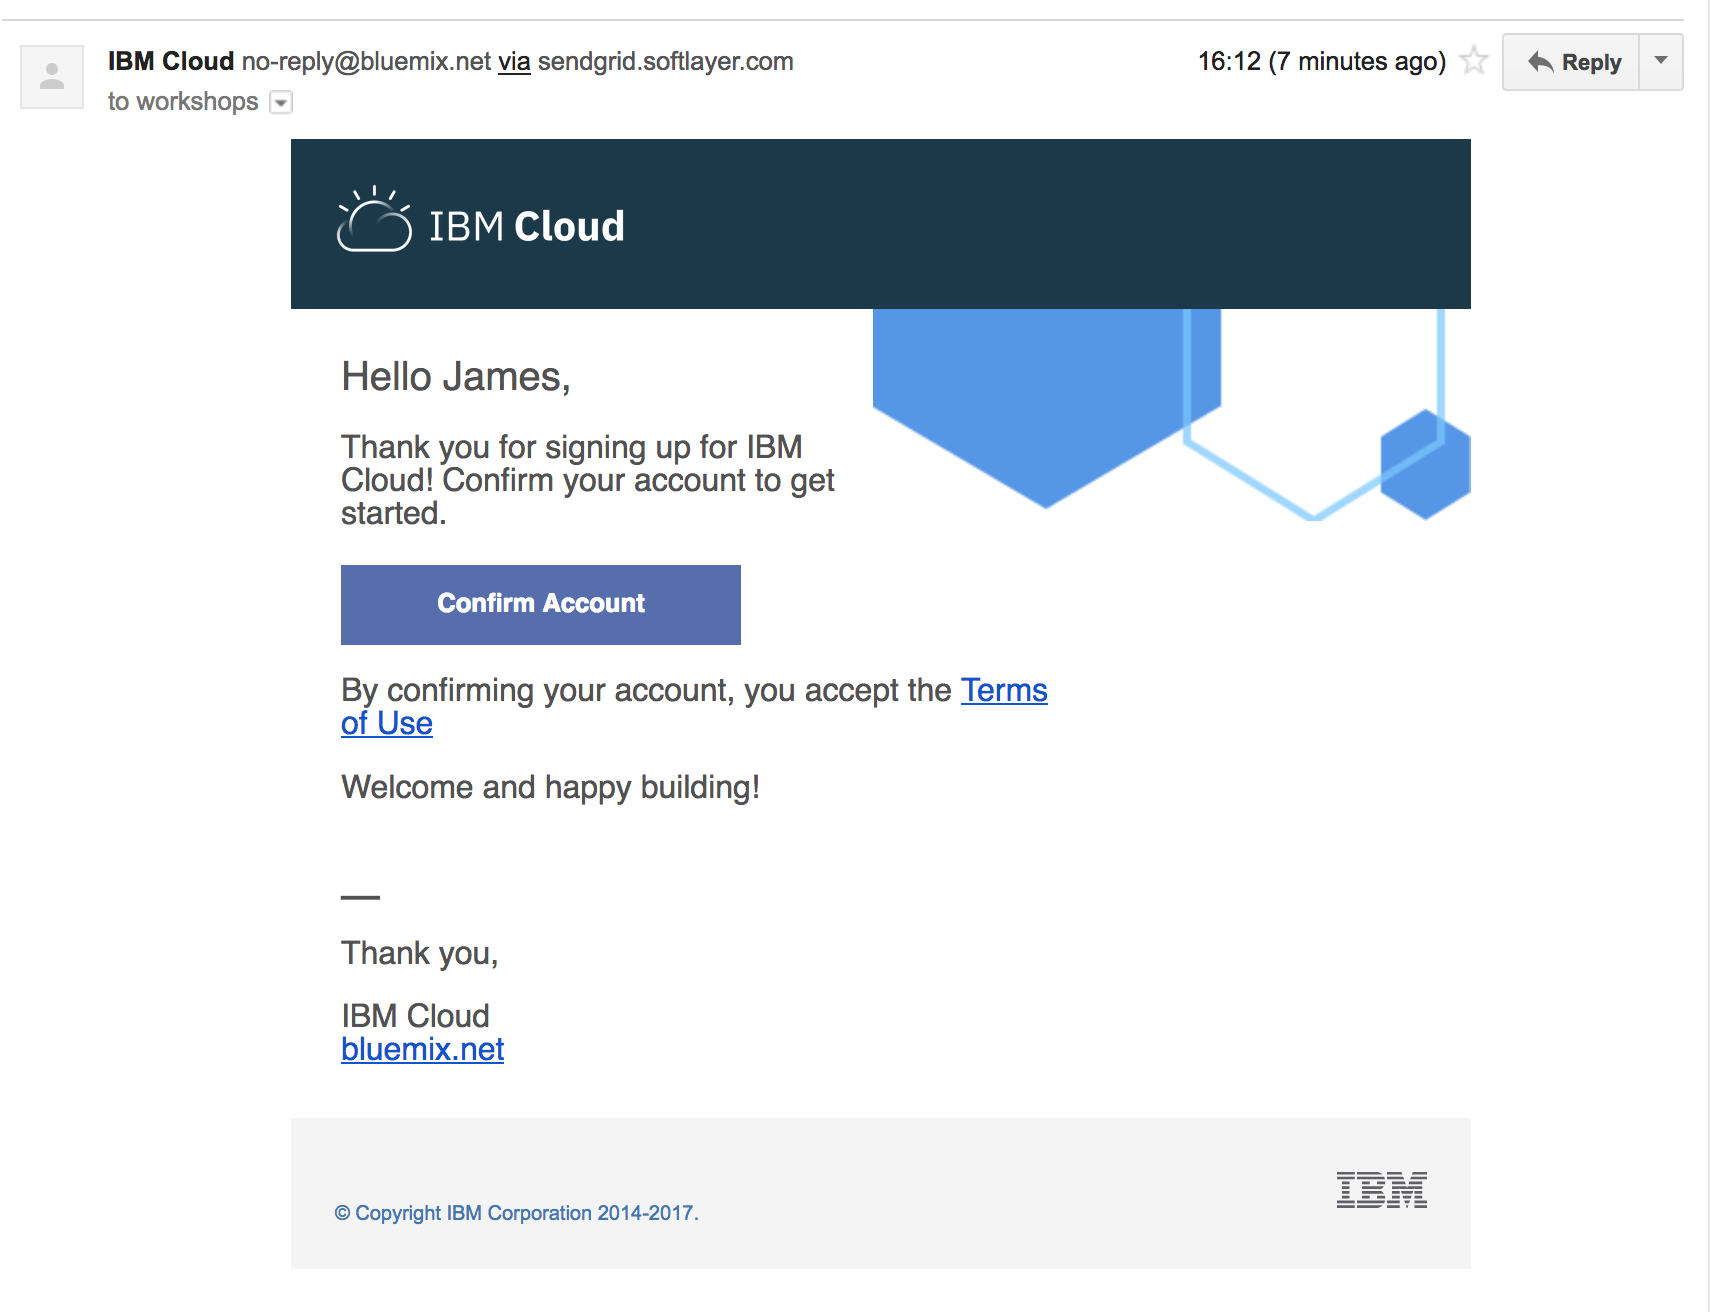
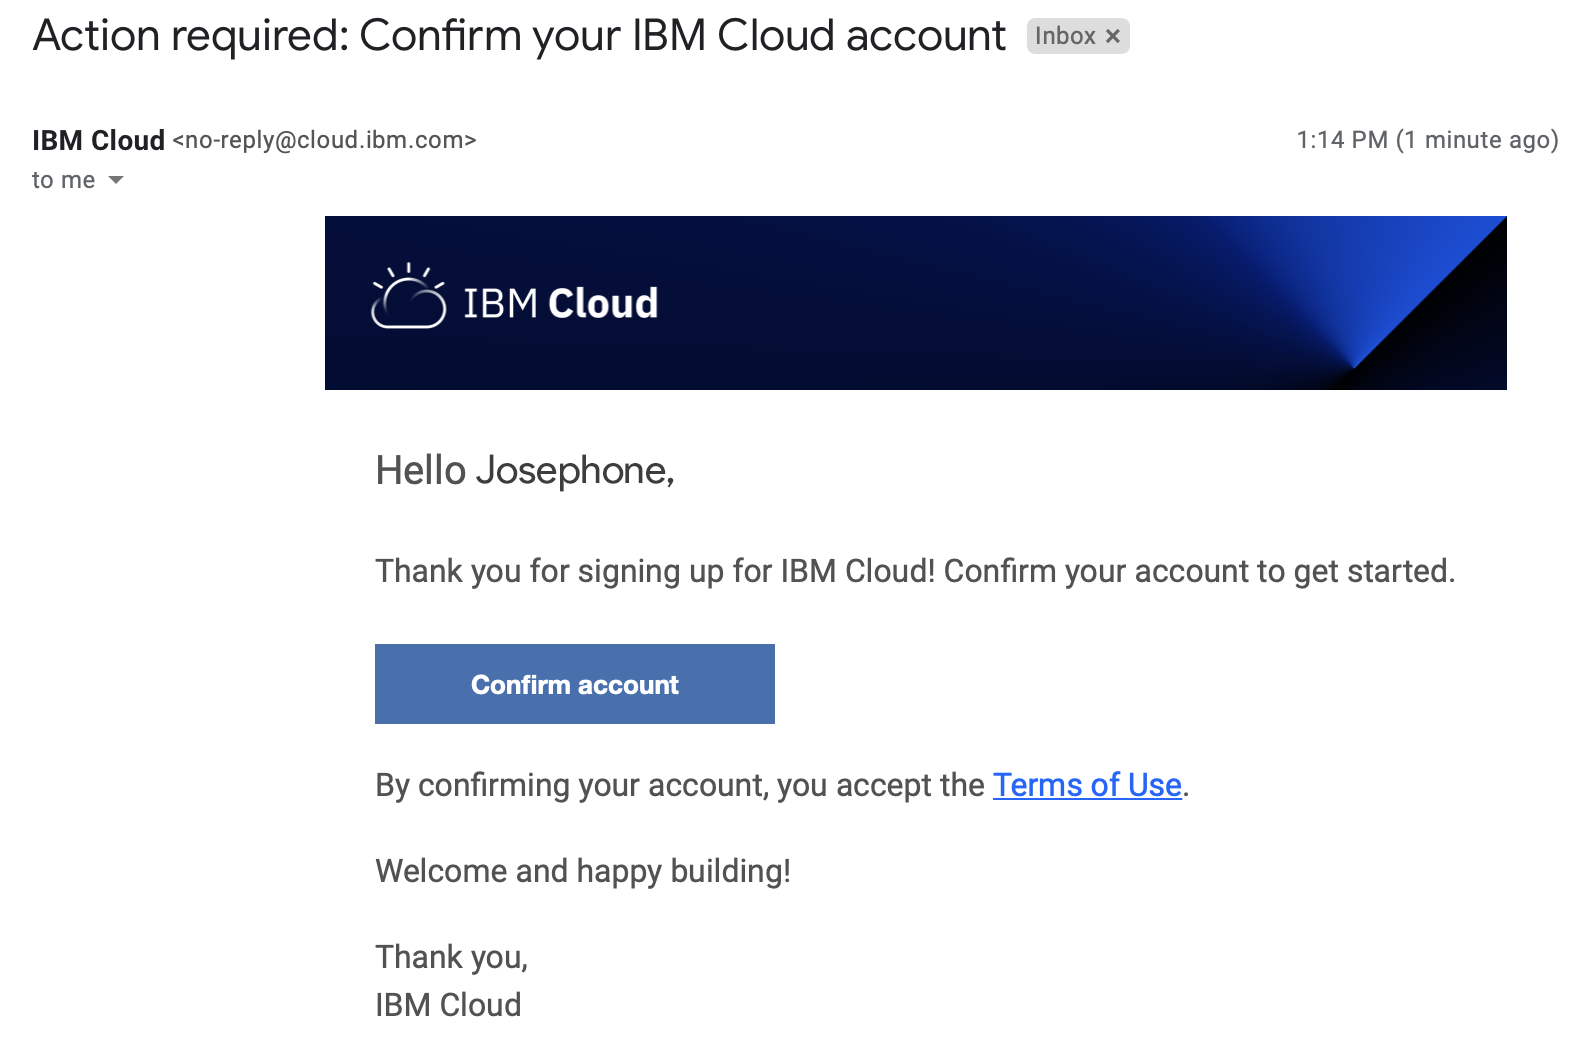
updates

diff --git a/prereqs/signup.md b/prereqs/signup.md
@@ -19,13 +19,19 @@ _**Note** IBM Cloud Functions is [available in other regions](https://cloud.ibm.
 
     ![Registration page top](images/ibm-cloud-registration-1.png)
 
-   Select email preferences, read the Terms and Conditions  and the click the **"Create Account"** button:
+    Select email preferences, read the Terms and Conditions  and the click the **"Create Account"** button:
 
-   ![Registration page bottom](images/ibm-cloud-registration-2.png)
+    ![Registration page bottom](images/ibm-cloud-registration-2.png)
+
+    You should be directed to verify your account email address:
+    ![Registration page bottom](images/ibm-cloud-registration-3.png)
 
 1. Follow link in the validation email when it arrives.
 
     ![Registration page](images/ibm-cloud-registration-email.png)
+
+    and click `Confirm account` which should take you back to IBM Cloud and display a confirmatiopn message:
+    ![Registration page bottom](images/ibm-cloud-registration-4.png)
 
 1. [Login into IBM Cloud](https://console.bluemix.net/login) using the account credentials you have registered.
 
